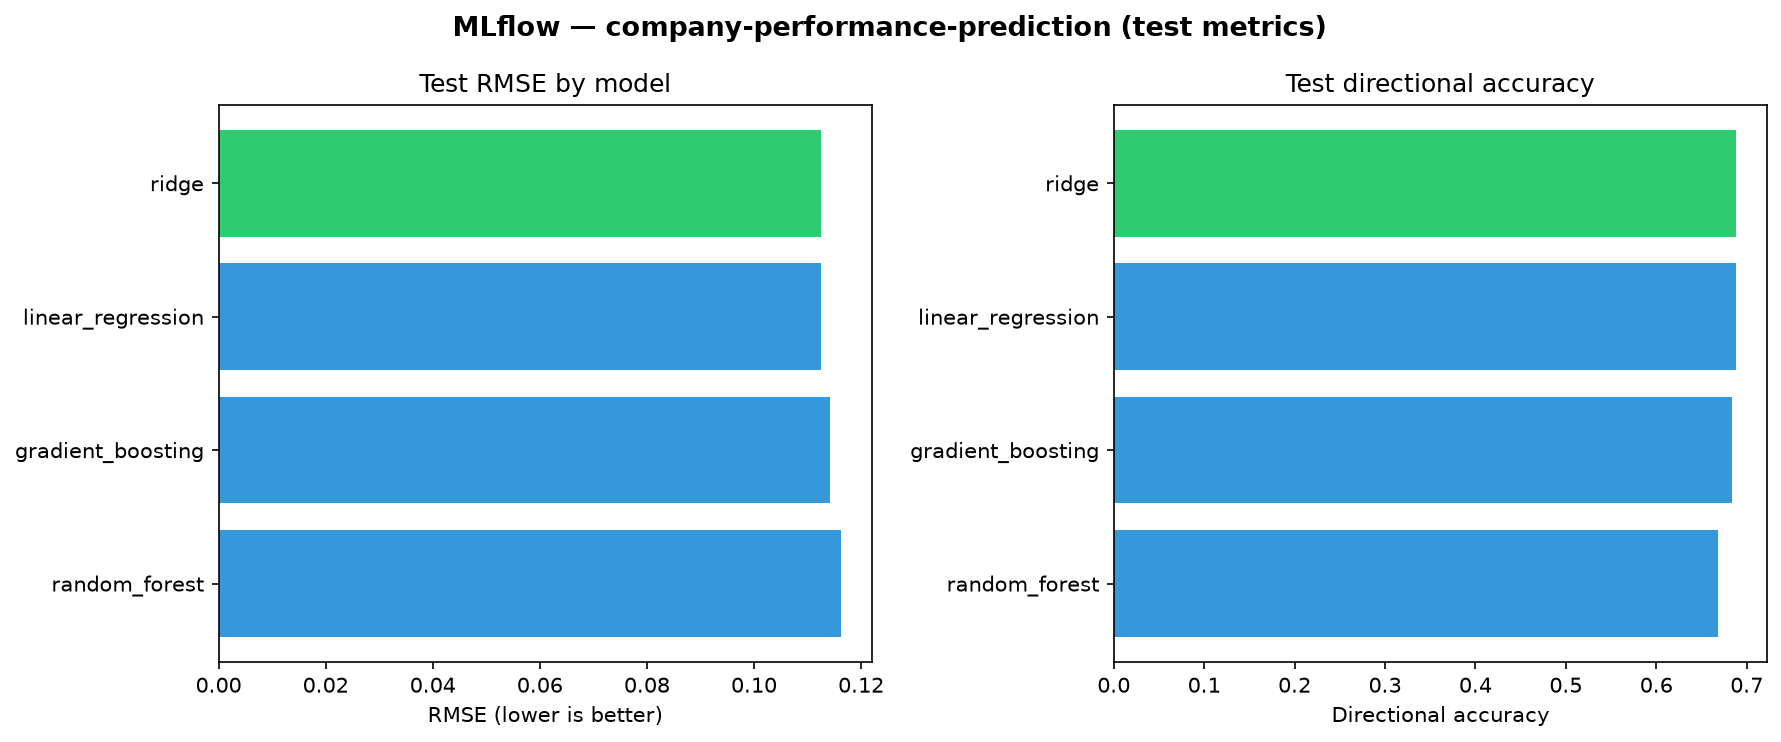
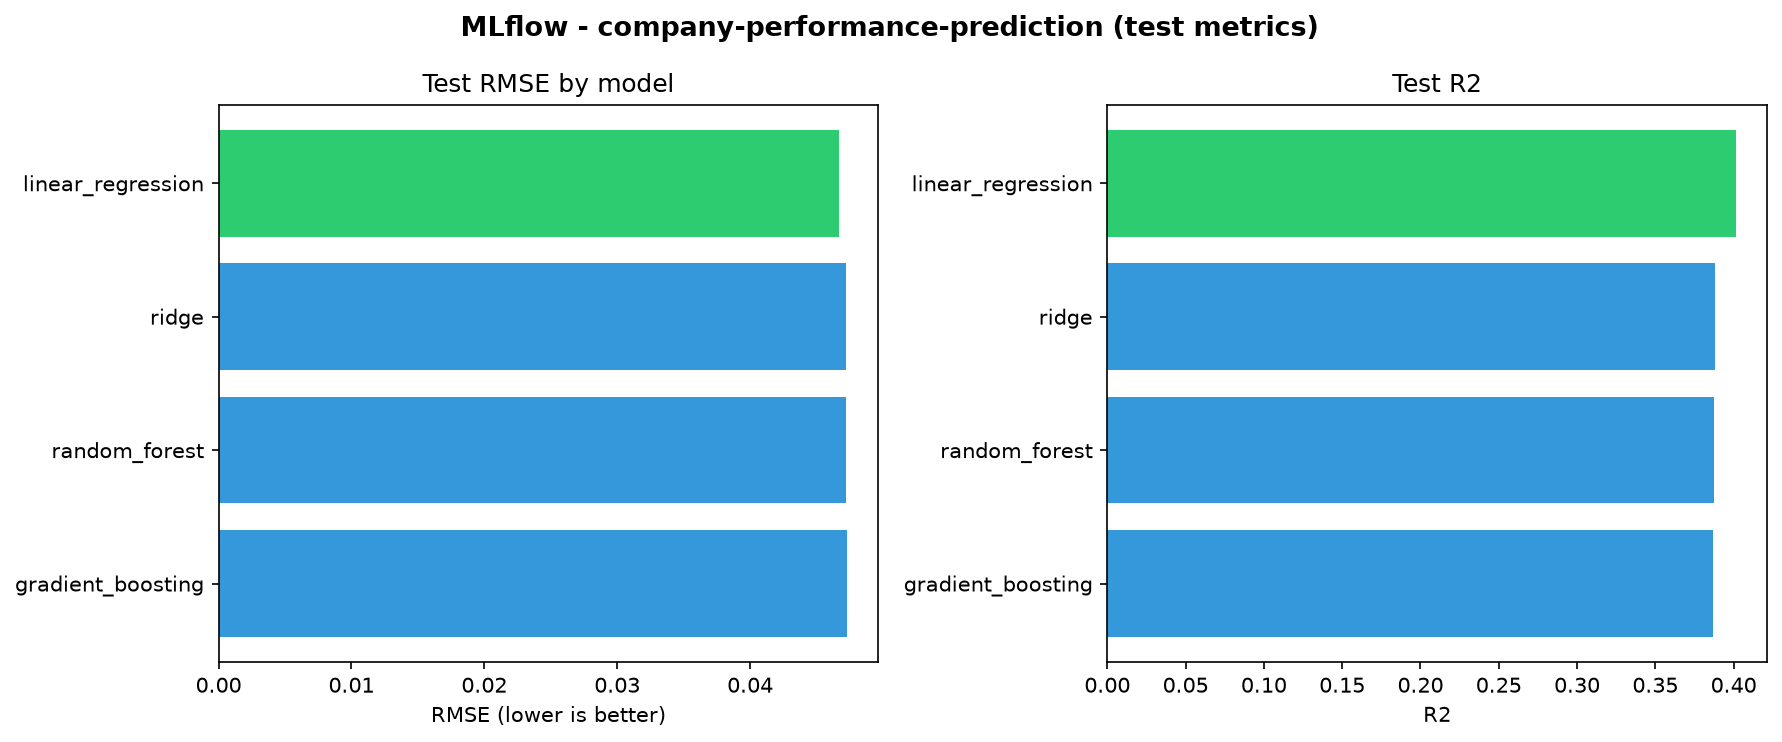
feat: tune model hyperparameters and update documentation
Add configurable regularisation for tree models, refresh metrics and
docs for the live-data pipeline, and retrain the selected model.

diff --git a/src/models/train.py b/src/models/train.py
@@ -66,12 +66,35 @@ def _processed_dir(config: dict[str, Any]) -> Path:
     return ROOT_DIR / config["paths"]["processed"]
 
 
-def _build_pipeline(model_name: str, random_seed: int) -> Pipeline:
+def _build_pipeline(
+    model_name: str,
+    random_seed: int,
+    hyperparameters: dict[str, Any] | None = None,
+) -> Pipeline:
+    hp = hyperparameters or {}
     estimators: dict[str, Any] = {
         "linear_regression": LinearRegression(),
-        "ridge": Ridge(random_state=random_seed),
-        "random_forest": RandomForestRegressor(random_state=random_seed),
+        "ridge": Ridge(
+            alpha=float(hp.get("ridge", {}).get("alpha", 1.0)),
+            random_state=random_seed,
+        ),
+        "random_forest": RandomForestRegressor(
+            n_estimators=int(hp.get("random_forest", {}).get("n_estimators", 200)),
+            max_depth=hp.get("random_forest", {}).get("max_depth", 6),
+            min_samples_leaf=int(
+                hp.get("random_forest", {}).get("min_samples_leaf", 25)
+            ),
+            random_state=random_seed,
+        ),
         "gradient_boosting": GradientBoostingRegressor(
+            n_estimators=int(
+                hp.get("gradient_boosting", {}).get("n_estimators", 150)
+            ),
+            max_depth=int(hp.get("gradient_boosting", {}).get("max_depth", 3)),
+            learning_rate=float(
+                hp.get("gradient_boosting", {}).get("learning_rate", 0.05)
+            ),
+            subsample=float(hp.get("gradient_boosting", {}).get("subsample", 0.8)),
             random_state=random_seed,
         ),
     }
@@ -105,6 +128,7 @@ def train_models(config: dict[str, Any] | None = None) -> dict[str, Path]:
     feature_cols = feature_columns(frame)
     model_names = list(config["training"]["models"])
     random_seed = int(config["random_seed"])
+    hyperparameters = config["training"].get("hyperparameters", {})
 
     train_frame, test_frame = year_based_split(frame, test_year)
 
@@ -122,18 +146,21 @@ def train_models(config: dict[str, Any] | None = None) -> dict[str, Path]:
     best_test_rmse = float("inf")
 
     for model_name in model_names:
-        pipeline = _build_pipeline(model_name, random_seed)
+        pipeline = _build_pipeline(model_name, random_seed, hyperparameters)
         pipeline.fit(x_train, y_train)
 
         train_metrics = compute_metrics(y_train, pipeline.predict(x_train))
         test_metrics = compute_metrics(y_test, pipeline.predict(x_test))
 
+        model_hp = hyperparameters.get(model_name, {})
         with mlflow.start_run(run_name=model_name):
             mlflow.log_param("model", model_name)
             mlflow.log_param("target", target_column)
             mlflow.log_param("test_year", test_year)
             mlflow.log_param("n_train", n_train)
             mlflow.log_param("n_test", n_test)
+            for param_name, param_value in model_hp.items():
+                mlflow.log_param(param_name, param_value)
             for metric_name, metric_value in test_metrics.items():
                 mlflow.log_metric(metric_name, metric_value)
 
@@ -178,7 +205,7 @@ def train_models(config: dict[str, Any] | None = None) -> dict[str, Path]:
     for model_name in model_names:
         metrics = model_results[model_name]["test_metrics"]
         logger.info(
-            "%s — MAE: %.4f, RMSE: %.4f, R²: %.4f, directional: %.4f",
+            "%s - MAE: %.4f, RMSE: %.4f, R²: %.4f, directional: %.4f",
             model_name,
             metrics["mae"],
             metrics["rmse"],

diff --git a/documentation.md b/documentation.md
@@ -24,9 +24,8 @@ We also support alternative targets in `config.yaml` (net-income growth, operati
 
 | Topic | Decision | Rationale |
 |---|---|---|
-| **Data source (default)** | Committed CSV snapshots in `datasets/raw/` | Reproducible, offline, no API dependency in CI or on the professor's machine |
-| **Data source (optional)** | yfinance + FRED via `pandas-datareader` when `fetch.use_live_apis: true` | Demonstrates dynamic ingestion; not required for grading |
-| **Panel size** | 500 companies, fiscal years 2018-2026 | Large enough for batch ML, small enough for fast runs |
+| **Data source** | yfinance + FRED (live APIs) | Real fundamentals, prices, and macro indicators for configured tickers |
+| **Universe** | ~168 large-cap tickers (US, Europe, Japan), fiscal years 2018-2026 | Coverage depends on API availability per ticker |
 | **Latency** | **Batch / offline** (minutes acceptable) | This is not a real-time trading system. Fetch may take minutes with live APIs; training and prediction run in seconds. No sub-second SLA is required. |
 | **Serving model** | Batch scoring via `python main.py predict` | Matches course "on-demand" workflow: load a CSV, write predictions to disk |
 | **Train/test split** | Chronological holdout (train 2018-2022, test 2023) | No shuffle; simulates forecasting on future data |
@@ -42,7 +41,7 @@ We also support alternative targets in `config.yaml` (net-income growth, operati
 fetch  →  features  →  train  →  predict
 ```
 
-1. **`fetch`**: load or generate raw snapshots into `datasets/raw/`.
+1. **`fetch`**: download raw snapshots from yfinance and FRED into `datasets/raw/`.
 2. **`features`**: engineer leakage-safe features; write `features.csv` and the on-demand scoring set.
 3. **`train`**: compare four sklearn models with MLflow; persist the best model by test RMSE.
 4. **`predict`**: score `batch_prediction_dataset/on_demand_dataset.csv` and write predictions.
@@ -68,7 +67,7 @@ Examples used during development: `feat/project-structure`, `feat/features-and-d
 1. Create a `feat/*` branch from `development`.
 2. Implement one scoped deliverable per branch.
 3. Open a **pull request** into `development` or `main`.
-4. **CI** runs flake8 and offline pytest on every PR to `main`.
+4. **CI** runs flake8 and pytest (including a live fetch) on every PR to `main`.
 5. Merge after review; CD runs on push to `main`.
 
 ### 2.3 Commit conventions
@@ -93,10 +92,9 @@ Documented in `src/features/build_features.py` and summarised here:
 | Dynamics | `prior_revenue_growth` (lagged within company) |
 | Market | `annual_return`, `annual_volatility`, `log_market_cap` |
 | Macro | `gdp_growth`, `dgs10`, `cpi`, `unrate` |
-| Categorical | `ticker_code` (label-encoded) |
 | Targets | `target_*` columns via `shift(-1)` per `company_id` (never used as features) |
 
-Output: `datasets/processed/features.csv` (~4,000 rows, 18 feature columns, zero NaNs).
+Output: `datasets/processed/features.csv` (live panel rows with complete features, zero NaNs).
 
 ### 3.2 Models compared
 
@@ -107,7 +105,7 @@ All models use **`StandardScaler` + estimator**:
 - Random Forest Regressor
 - Gradient Boosting Regressor
 
-We deliberately avoided overly complex models. Tree ensembles overfit on this panel; Ridge achieved the best test generalisation.
+We deliberately avoided overly complex models. Tree ensembles use shallow, regularised settings (`max_depth`, `min_samples_leaf`) to limit overfitting. Hyperparameters are defined in `config.yaml` under `training.hyperparameters`.
 
 ### 3.3 Performance metrics
 
@@ -124,16 +122,16 @@ Each model is evaluated on four metrics:
 
 | Model | MAE | RMSE | R² | Directional accuracy |
 |---|---|---|---|---|
-| Linear Regression | 0.0906 | 0.1125 | -0.0113 | 0.688 |
-| **Ridge Regression** | **0.0906** | **0.1125** | **-0.0112** | **0.688** |
-| Random Forest | 0.0932 | 0.1162 | -0.0790 | 0.668 |
-| Gradient Boosting | 0.0915 | 0.1143 | -0.0437 | 0.684 |
+| **Linear Regression** | **0.0376** | **0.0467** | **0.401** | **0.910** |
+| Ridge Regression | 0.0378 | 0.0472 | 0.388 | 0.914 |
+| Random Forest | 0.0378 | 0.0472 | 0.388 | 0.914 |
+| Gradient Boosting | 0.0377 | 0.0473 | 0.387 | 0.914 |
 
 *Source: `models/metadata.json`, test partition, fiscal year 2023.*
 
 ### 3.5 Chosen model
 
-**Ridge regression** was selected (lowest test RMSE: **0.1125**). It outperformed tree-based models on the holdout and applies mild L2 regularisation, which helps when financial and macro features are correlated.
+**Linear regression** was selected (lowest test RMSE: **0.0467**, test R² **0.40**). With tuned, regularised tree models, all four candidates perform similarly on the holdout; the simple linear model generalises best by RMSE while staying easy to interpret.
 
 ### 3.6 MLflow and Jupyter
 
@@ -164,15 +162,15 @@ src/
   models/train.py                  # training + MLflow logging
   models/predict.py                # on-demand batch scoring
 datasets/
-  raw/                             # committed CSV snapshots
-  processed/                       # features.csv
+  raw/                             # fundamentals, stock, macro CSVs (generated by fetch)
+  processed/                       # features.csv (generated by features)
 models/                            # model.joblib, metadata.json
 batch_prediction_dataset/          # on_demand_dataset.csv, on_demand_predictions.csv
-tests/test_pipeline.py             # offline pytest suite
+tests/test_pipeline.py             # pytest suite (live fetch)
 notebooks/model_experiments.ipynb  # experiment notebook
 .github/workflows/
   ci.yml                           # lint + pytest on pull_request
-  cd.yml                           # features + train on push to main
+  cd.yml                           # fetch + features + train on push to main
 ```
 
 ### 4.1 Dependencies
@@ -181,7 +179,7 @@ All dependencies are pinned in `requirements.txt` (pandas, scikit-learn, mlflow,
 
 ### 4.2 Running on the professor's machine
 
-No network required (committed snapshots, `fetch.use_live_apis: false`):
+Requires network access for `fetch` and pytest:
 
 ```bash
 python -m venv .venv && source .venv/bin/activate
@@ -199,15 +197,15 @@ pytest tests/ -v
 | Setting | Value |
 |---|---|
 | **Trigger** | Pull request to `main` |
-| **Steps** | `pip install` → flake8 → offline `pytest` |
-| **Network** | None required (uses committed CSVs) |
+| **Steps** | `pip install` → flake8 → `pytest` (live fetch) |
+| **Network** | Required (yfinance + FRED) |
 
 ### 5.2 Continuous Deployment (`.github/workflows/cd.yml`)
 
 | Setting | Value |
 |---|---|
 | **Trigger** | Push to `main` |
-| **Steps** | `python main.py features` → `python main.py train` |
+| **Steps** | `python main.py fetch` → `features` → `train` |
 | **Artifact** | Commits updated `models/model.joblib` and `models/metadata.json` back to the repo |
 
 ---
@@ -218,7 +216,7 @@ The course requires a batch prediction workflow using a dataset in `batch_predic
 
 | Item | Path |
 |---|---|
-| **Input** | `batch_prediction_dataset/on_demand_dataset.csv` (500 companies, feature year 2025) |
+| **Input** | `batch_prediction_dataset/on_demand_dataset.csv` (feature year 2025) |
 | **Output** | `batch_prediction_dataset/on_demand_predictions.csv` |
 | **Command** | `python main.py predict` |
 
@@ -234,11 +232,11 @@ python main.py predict
 
 We delivered a reproducible batch MLOps pipeline with:
 
-- Offline-first data ingestion (CSV snapshots + optional API refresh)
+- Live data ingestion from yfinance and FRED
 - Documented, leakage-safe feature engineering
 - Four-model comparison tracked in MLflow
-- Ridge regression as the final model (test RMSE 0.1125, directional accuracy 68.8%)
+- Linear regression as the final model (test RMSE 0.0467, test R² 0.40, directional accuracy 91.0%)
 - CI on pull requests and CD that retrains and commits model artifacts
-- On-demand batch predictions for 500 companies (2025 features → 2026 revenue growth)
+- On-demand batch predictions (2025 features → 2026 revenue growth)
 
 The project prioritises **pipeline mechanics, reproducibility, and documentation** over forecasting accuracy, as required by the course.